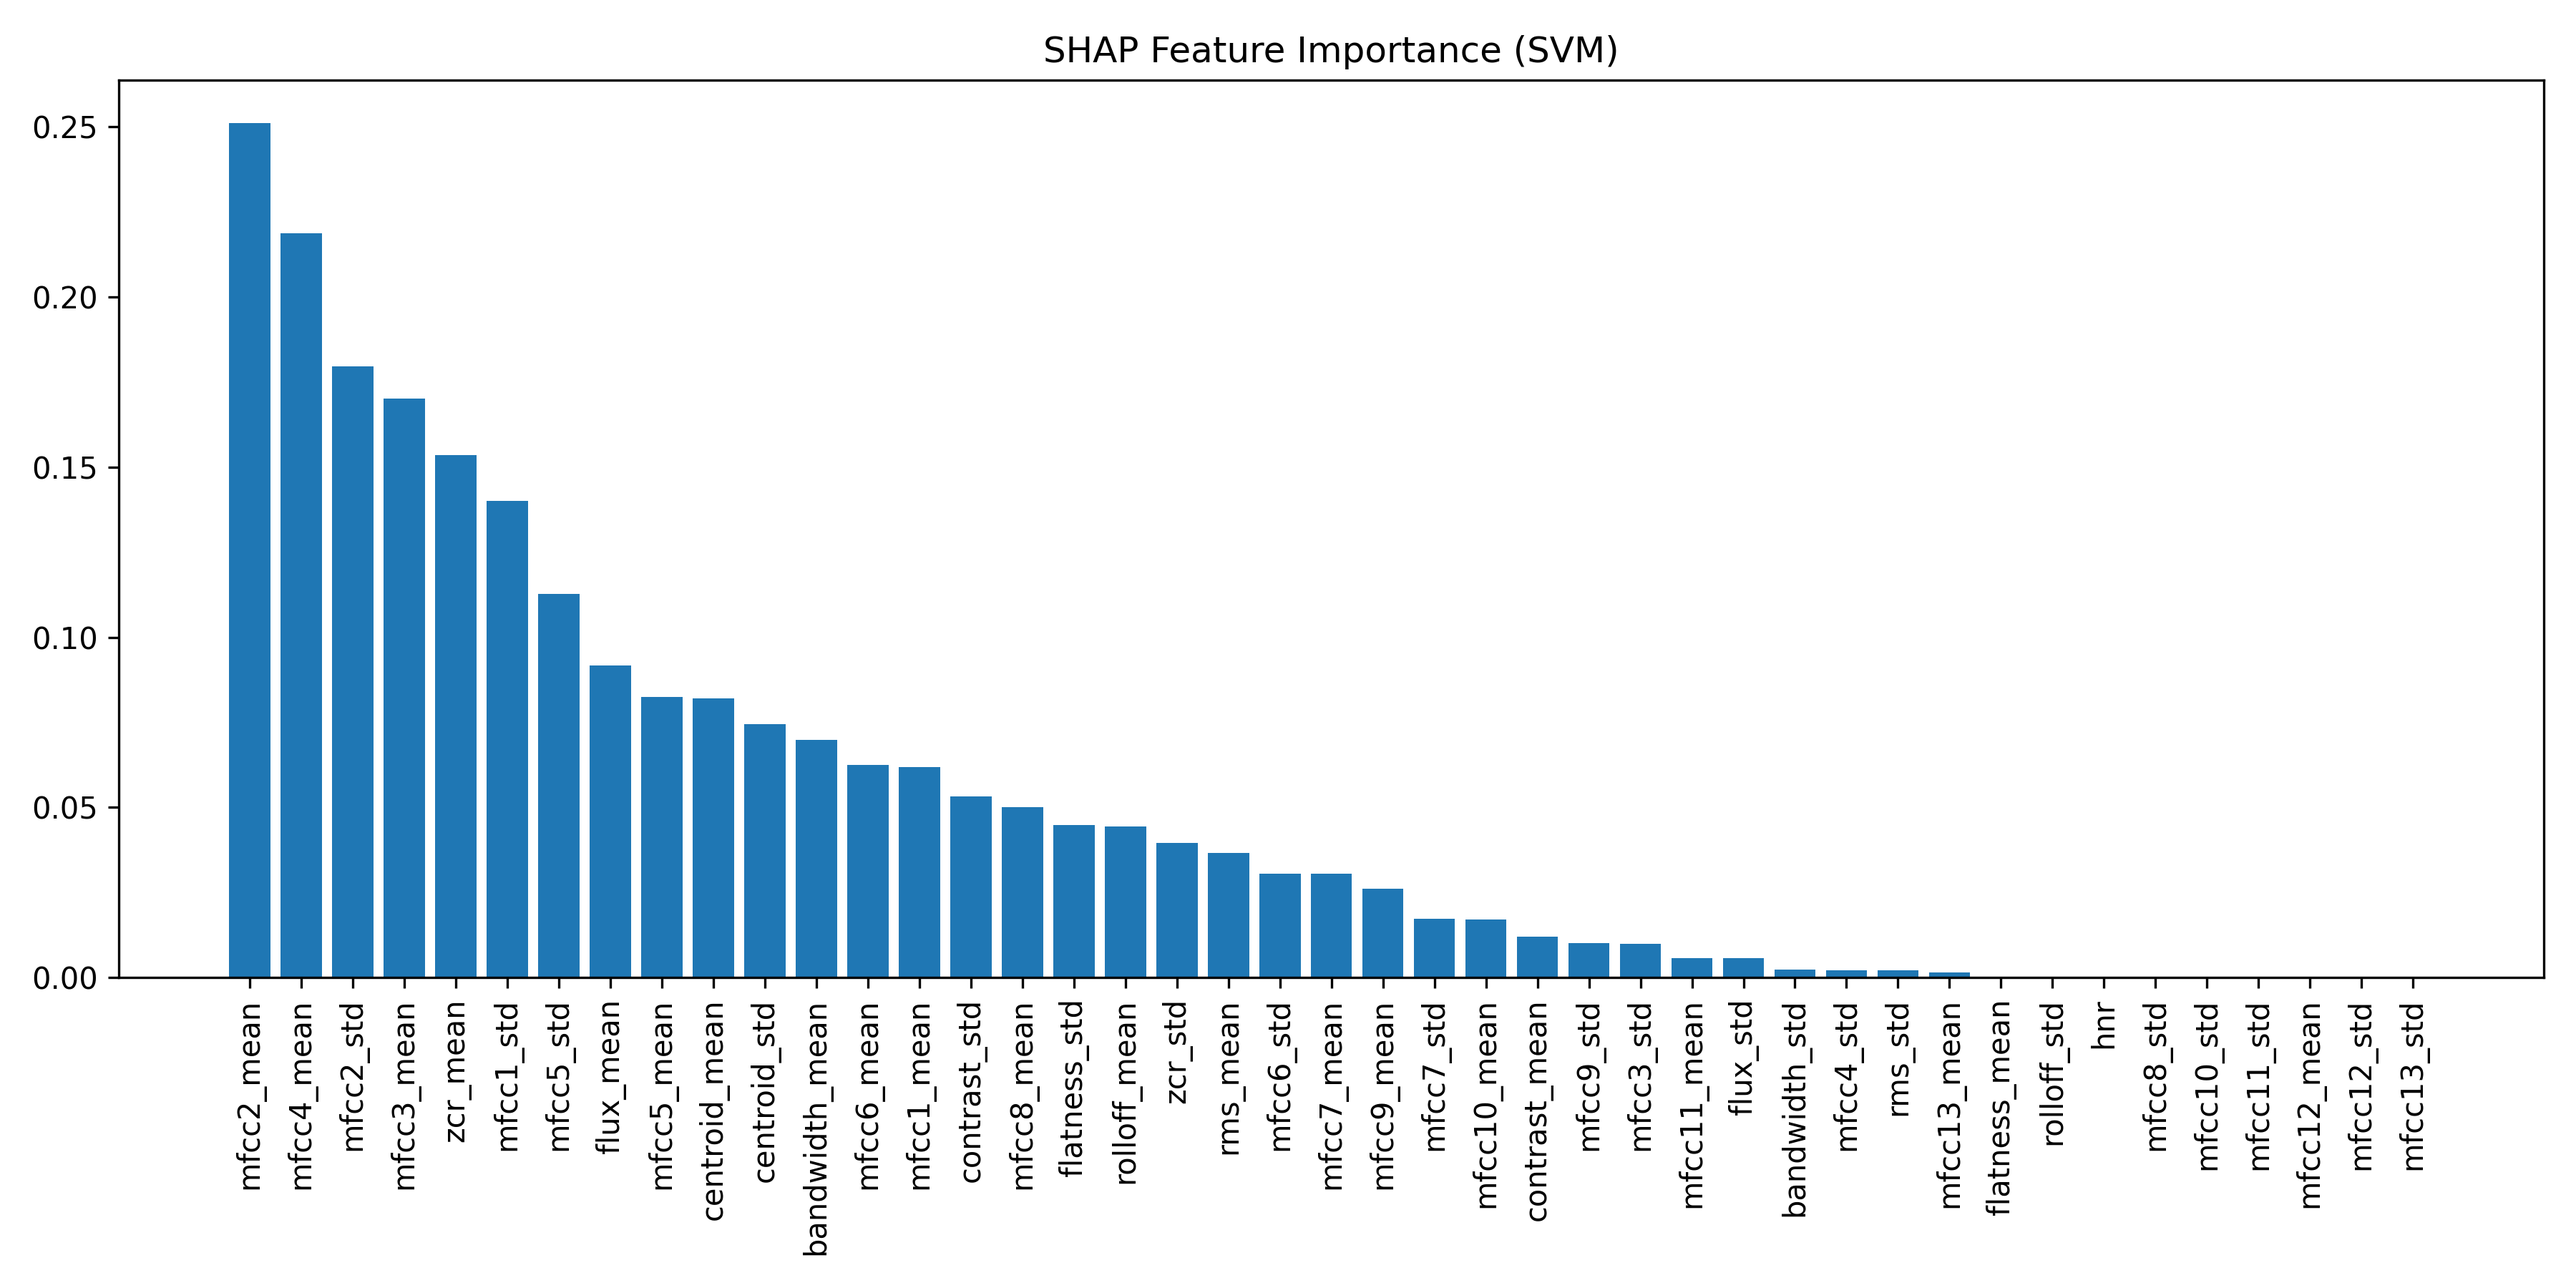
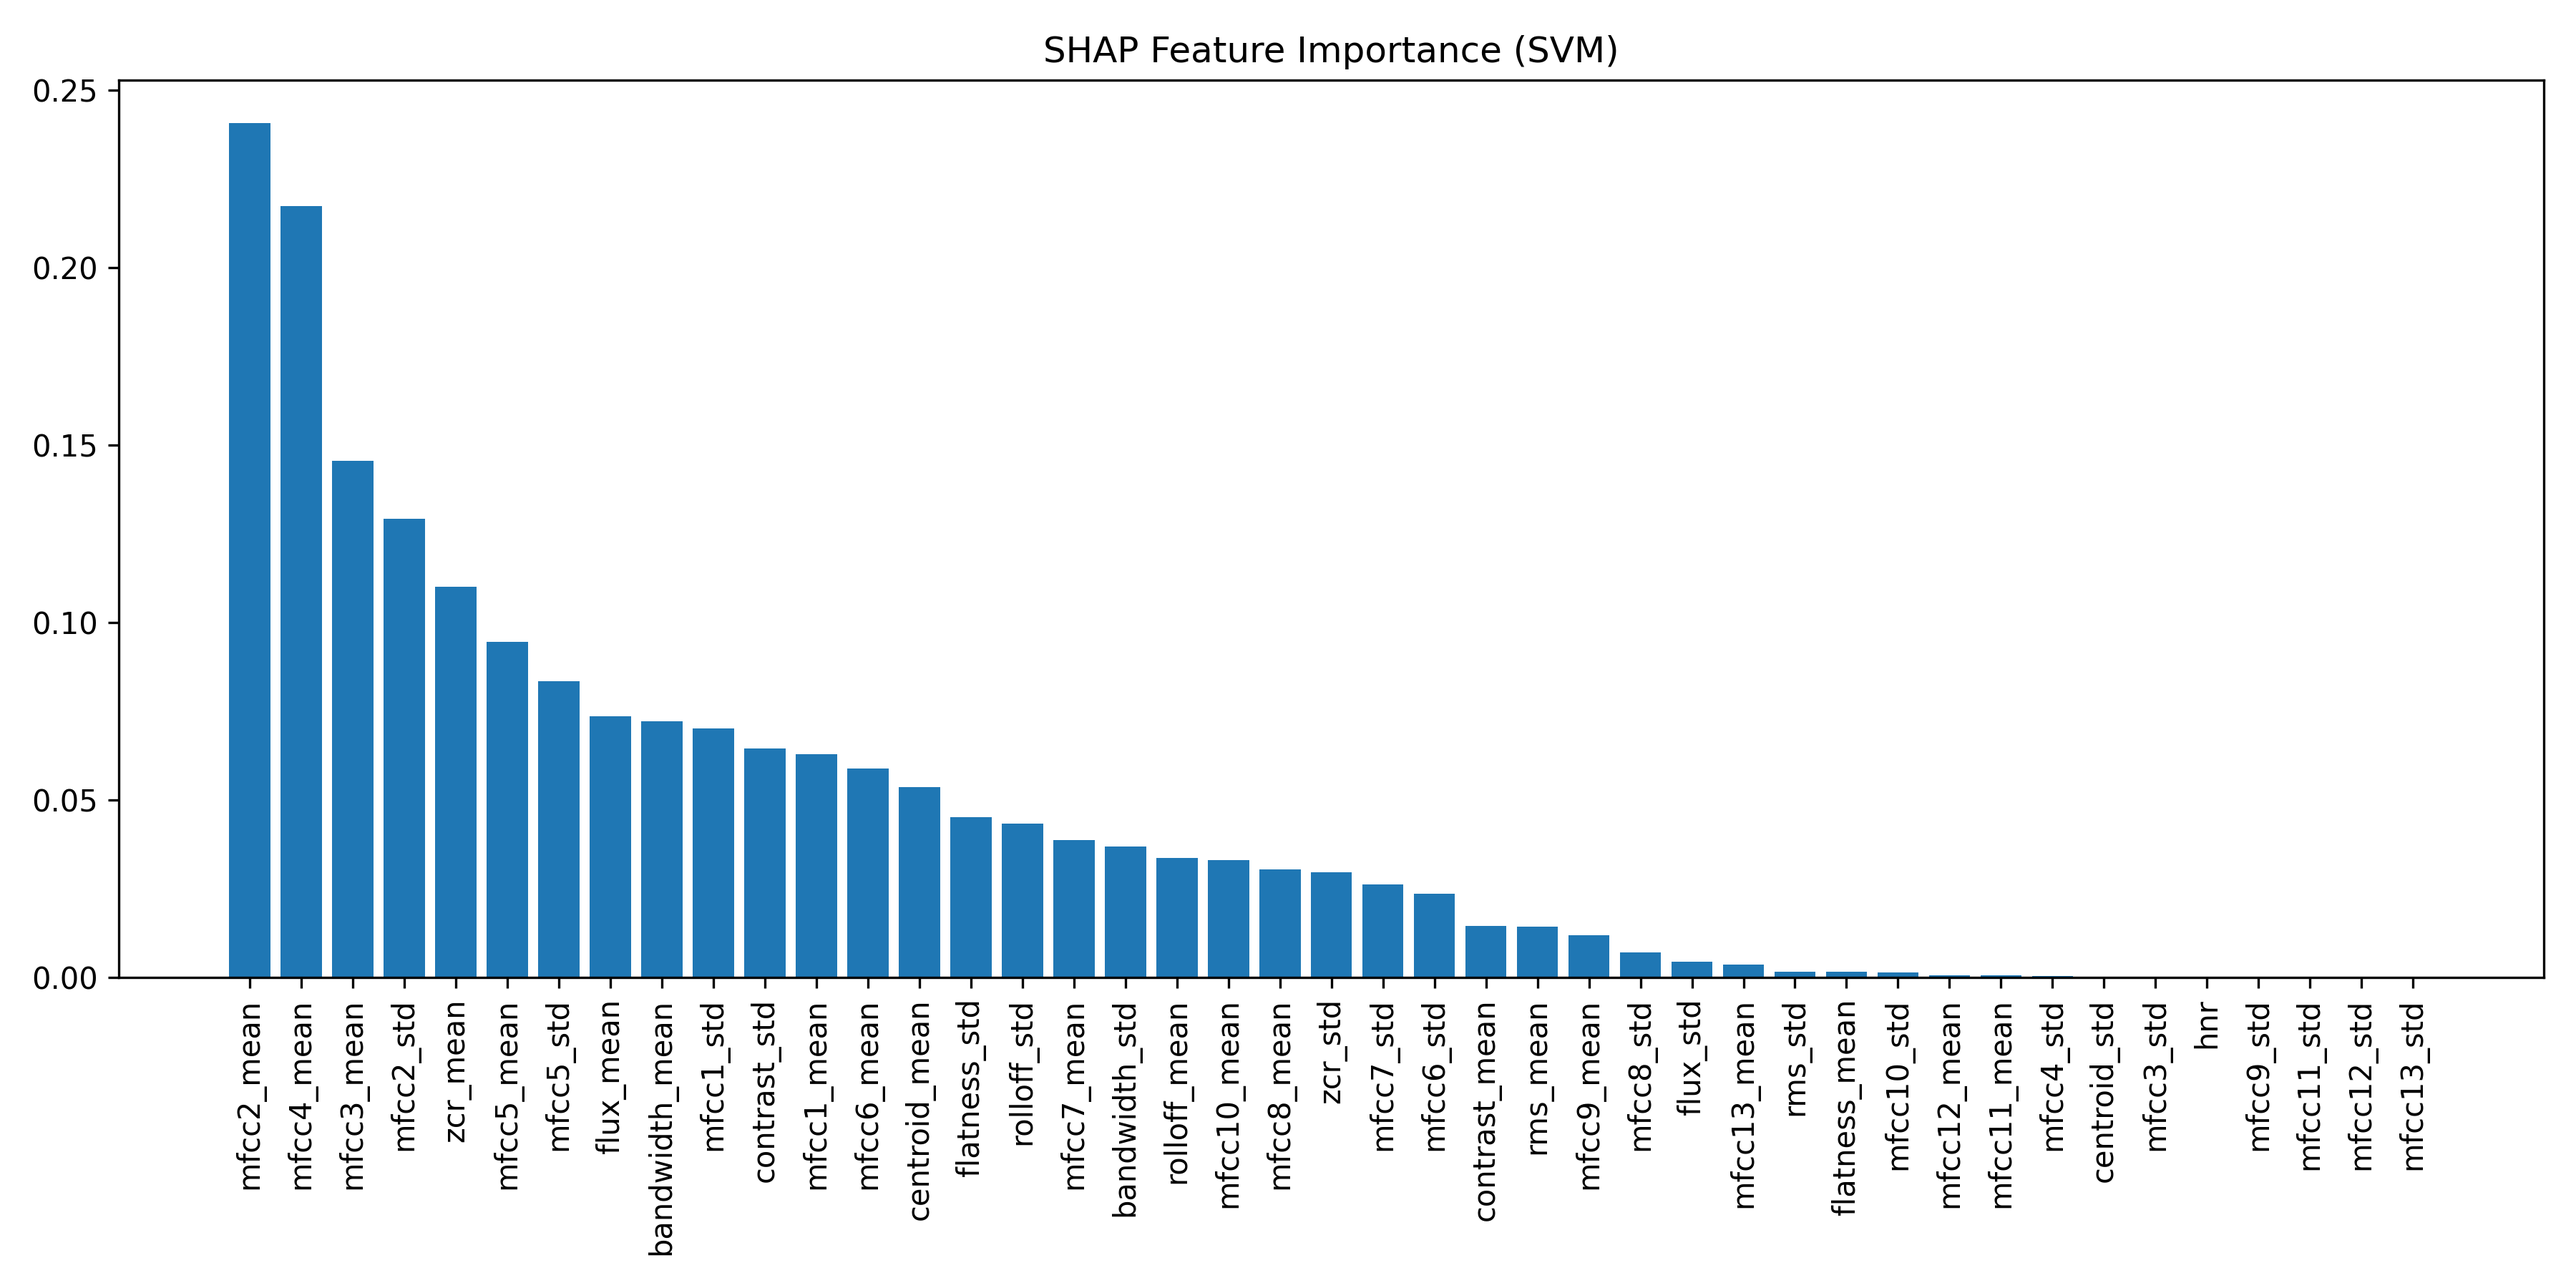
tilføj

diff --git a/Modeller/SVM/svmnestedgrid.py b/Modeller/SVM/svmnestedgrid.py
@@ -6,12 +6,12 @@ import pandas as pd
 import numpy as np
 import matplotlib.pyplot as plt
 
-from sklearn.model_selection import StratifiedKFold, GridSearchCV, cross_val_score
+from sklearn.model_selection import StratifiedKFold, GridSearchCV
 from sklearn.preprocessing import LabelEncoder, StandardScaler
 from sklearn.metrics import classification_report, confusion_matrix, accuracy_score
 from sklearn.svm import SVC
 
-import shap  # SHAP til feature importance
+import shap  # SHAP
 
 # ============================================================
 # 1. CONFIGURATION
@@ -24,8 +24,8 @@ TARGET_COLUMN = "target"
 IRRELEVANT_COLUMNS = ["filnavn", "beta", "snr_db"]
 TARGET_CLASSES = ["BlueNoise", "BrownNoise", "Clean", "PinkNoise", "VioletNoise", "WhiteNoise"]
 
-N_SPLITS_OUTER = 5  # Ydre CV fold
-N_SPLITS_INNER = 5  # Indre CV fold for GridSearch
+N_SPLITS_OUTER = 5
+N_SPLITS_INNER = 5
 RANDOM_STATE = 42
 
 PARAM_GRID = {
@@ -36,7 +36,7 @@ PARAM_GRID = {
 }
 
 # ============================================================
-# 2. LOAD & CLEAN DATA
+# 2. LOAD DATA
 # ============================================================
 
 def load_data(path):
@@ -47,18 +47,14 @@ def load_data(path):
     return df
 
 # ============================================================
-# 3. PREPARE FEATURES & LABELS
+# 3. PREPARE DATA
 # ============================================================
 
 def prepare_features(df):
     X = df.drop(columns=[TARGET_COLUMN])
     y = df[TARGET_COLUMN]
 
-    # Encode target labels
     class_mapping = {name: idx for idx, name in enumerate(TARGET_CLASSES)}
-    unknown_labels = sorted(set(y.unique()) - set(class_mapping.keys()))
-    if unknown_labels:
-        raise ValueError(f"Unknown classes: {unknown_labels}")
     y_encoded = y.map(class_mapping).astype(int)
 
     label_encoder = LabelEncoder()
@@ -67,7 +63,7 @@ def prepare_features(df):
     return X, y_encoded, label_encoder
 
 # ============================================================
-# 4. SCALE FEATURES
+# 4. SCALING
 # ============================================================
 
 def scale_features(X_train, X_val):
@@ -77,83 +73,98 @@ def scale_features(X_train, X_val):
     return X_train_s, X_val_s, scaler
 
 # ============================================================
-# 5. NESTED GRIDSEARCH
+# 5. NESTED CV (EVALUERING)
 # ============================================================
 
-def nested_grid_search(X, y, param_grid):
-    """
-    Ydre CV for performance estimation
-    Indre CV (GridSearch) for hyperparameter tuning
-    """
+def nested_cv_evaluation(X, y, param_grid):
     outer_cv = StratifiedKFold(n_splits=N_SPLITS_OUTER, shuffle=True, random_state=RANDOM_STATE)
     inner_cv = StratifiedKFold(n_splits=N_SPLITS_INNER, shuffle=True, random_state=RANDOM_STATE)
 
     outer_scores = []
 
-    fold_num = 1
-    for train_idx, val_idx in outer_cv.split(X, y):
-        print(f"\n=== Outer Fold {fold_num} ===")
+    for fold, (train_idx, val_idx) in enumerate(outer_cv.split(X, y), 1):
+        print(f"\n=== Outer Fold {fold} ===")
+
         X_train, X_val = X.iloc[train_idx], X.iloc[val_idx]
         y_train, y_val = y.iloc[train_idx], y.iloc[val_idx]
 
-        # Scale
-        X_train_s, X_val_s, scaler = scale_features(X_train, X_val)
+        X_train_s, X_val_s, _ = scale_features(X_train, X_val)
 
-        # Inner GridSearch
-        model = SVC(max_iter=-1, probability=True, random_state=RANDOM_STATE)
         grid = GridSearchCV(
-            estimator=model,
-            param_grid=param_grid,
+            SVC(probability=True, random_state=RANDOM_STATE),
+            param_grid,
             scoring="accuracy",
             cv=inner_cv,
             n_jobs=-1
         )
+
         grid.fit(X_train_s, y_train)
+
+        print("Best params:", grid.best_params_)
+
         best_model = grid.best_estimator_
 
-        print("Best params (inner GridSearch):", grid.best_params_)
+        y_pred = best_model.predict(X_val_s)
+        acc = accuracy_score(y_val, y_pred)
 
-        # Evaluer på ydre fold
-        y_val_pred = best_model.predict(X_val_s)
-        acc = accuracy_score(y_val, y_val_pred)
-        print("Outer Fold Accuracy:", acc)
+        print("Outer Accuracy:", acc)
         outer_scores.append(acc)
 
-        fold_num += 1
-
-    mean_outer = np.mean(outer_scores)
-    std_outer = np.std(outer_scores)
-    print("\n=== Nested CV Results ===")
-    print(f"Mean accuracy: {mean_outer:.3f} ± {std_outer:.3f}")
-
-    # Til sidst, træner bedste model på hele dataset med bedste parametre fra sidste fold
-    X_full_s, _, scaler_full = scale_features(X, X)  # fit på hele datasættet
-    best_model.fit(X_full_s, y)  # træner model på hele datasættet
-    return best_model, scaler_full
+    print("\n=== Nested CV Result ===")
+    print(f"Mean accuracy: {np.mean(outer_scores):.3f} ± {np.std(outer_scores):.3f}")
 
 # ============================================================
-# 6. EVALUATION
+# 6. FINAL MODEL (KORREKT)
 # ============================================================
 
-def evaluate_model(model, X_val, y_val, label_encoder):
-    y_pred = model.predict(X_val)
-    print("\n=== EVALUATION RESULTS ===")
-    print("Accuracy:", accuracy_score(y_val, y_pred))
+def train_final_model(X, y, param_grid):
+    print("\n=== TRAINING FINAL MODEL ===")
+
+    scaler = StandardScaler()
+    X_scaled = scaler.fit_transform(X)
+
+    grid = GridSearchCV(
+        SVC(probability=True, random_state=RANDOM_STATE),
+        param_grid,
+        scoring="accuracy",
+        cv=5,
+        n_jobs=-1
+    )
+
+    grid.fit(X_scaled, y)
+
+    print("Final best params:", grid.best_params_)
+
+    best_model = grid.best_estimator_
+
+    return best_model, scaler
+
+# ============================================================
+# 7. EVALUATION
+# ============================================================
+
+def evaluate_model(model, scaler, X, y, label_encoder):
+    X_scaled = scaler.transform(X)
+    y_pred = model.predict(X_scaled)
+
+    print("\n=== TEST RESULTS ===")
+    print("Accuracy:", accuracy_score(y, y_pred))
     print("\nClassification Report:")
-    print(classification_report(y_val, y_pred, target_names=label_encoder.classes_))
+    print(classification_report(y, y_pred, target_names=label_encoder.classes_))
     print("Confusion Matrix:")
-    print(confusion_matrix(y_val, y_pred))
-    return y_pred
+    print(confusion_matrix(y, y_pred))
+
+    return X_scaled, y_pred
 
 # ============================================================
-# 7. SHAP FEATURE IMPORTANCE (med gemmefunktion)
+# 8. SHAP FEATURE IMPORTANCE (DIN VERSION + FIX)
 # ============================================================
 
 def shap_feature_importance(model, X_train, X_val, feature_names, save_path="Modeller/SVM/shap_feature_importance2.png"):
-    # Brug et lille sample til SHAP for hastighed
+    print("\n=== SHAP FEATURE IMPORTANCE ===")
+
     X_sample = X_train[:100]
 
-    # KernelExplainer virker for SVM
     explainer = shap.KernelExplainer(model.predict, X_sample)
     shap_values = explainer.shap_values(X_val[:50])
 
@@ -166,31 +177,39 @@ def shap_feature_importance(model, X_train, X_val, feature_names, save_path="Mod
     plt.title("SHAP Feature Importance (SVM)")
     plt.tight_layout()
     plt.savefig(save_path, dpi=300)
-    print(f"SHAP feature importance plot saved as: {save_path}")
+
+    print(f"SHAP plot saved as: {save_path}")
     plt.show()
+
     return importance
 
 # ============================================================
-# 8. MAIN SCRIPT
+# 9. MAIN
 # ============================================================
 
 if __name__ == "__main__":
 
-    # Load data
     df_train = load_data(DATA_PATH_TRAIN)
     df_test  = load_data(DATA_PATH_TEST)
 
-    # Prepare features
     X_train, y_train, label_encoder = prepare_features(df_train)
-    X_test,  y_test,  _            = prepare_features(df_test)
+    X_test,  y_test,  _ = prepare_features(df_test)
 
-    # Nested GridSearch på træningsdata
-    best_model, scaler_full = nested_grid_search(X_train, y_train, PARAM_GRID)
+    # 1. Nested CV (kun evaluering)
+    nested_cv_evaluation(X_train, y_train, PARAM_GRID)
 
-    # Evaluer på validation og test set
-    X_val_s = scaler_full.transform(X_test)
-    evaluate_model(best_model, X_val_s, y_test, label_encoder)
+    # 2. Final model
+    best_model, scaler = train_final_model(X_train, y_train, PARAM_GRID)
 
-    # SHAP feature importance
-    X_train_s, _, _ = scale_features(X_train, X_train)
-    shap_feature_importance(best_model, X_train_s, X_val_s, X_train.columns)
+    # 3. Evaluation
+    X_test_scaled, _ = evaluate_model(best_model, scaler, X_test, y_test, label_encoder)
+
+    # 4. SHAP (FIXET: bruger samme scaler)
+    X_train_scaled = scaler.transform(X_train)
+
+    shap_feature_importance(
+        best_model,
+        X_train_scaled,
+        X_test_scaled,
+        X_train.columns
+    )

diff --git a/Modeller/SVM/svmtest.py b/Modeller/SVM/svmtest.py
@@ -34,7 +34,6 @@ PARAM_GRID = {
     "kernel": ["linear", "rbf"],
     "gamma": ["scale", "auto"],
     "class_weight": [None, "balanced"],
-    "max_iter": [500, 1000, -1]  # -1 means no limit
 }
 
 # ============================================================
@@ -93,7 +92,7 @@ def scale_features(X_train, X_val):
 
 def train_model_gridsearch(X_train, y_train):
     cv = StratifiedKFold(n_splits=5, shuffle=True, random_state=RANDOM_STATE)
-    model = SVC(class_weight="balanced", probability=True, random_state=RANDOM_STATE)
+    model = SVC(max_iter=-1, probability=True, random_state=RANDOM_STATE)
 
     grid = GridSearchCV(
         estimator=model,
@@ -129,7 +128,7 @@ def evaluate_model(model, X_val, y_val, label_encoder):
 # 8. SHAP FEATURE IMPORTANCE (med gemmefunktion)
 # ============================================================
 
-def shap_feature_importance(model, X_train, X_val, feature_names, save_path="shap_feature_importance.png"):
+def shap_feature_importance(model, X_train, X_val, feature_names, save_path="Modeller/SVM/shap_feature_importance.png"):
     """
     Beregner SHAP værdier og plotter global feature importance.
     Gemmer figuren til fil.
@@ -196,7 +195,7 @@ if __name__ == "__main__":
         X_train_s,
         X_val_s,
         X_train.columns,
-        save_path="shap_feature_importance.png"
+        save_path="Modeller/SVM/shap_feature_importance.png"
     )
 
     # --- Evaluate on test set
